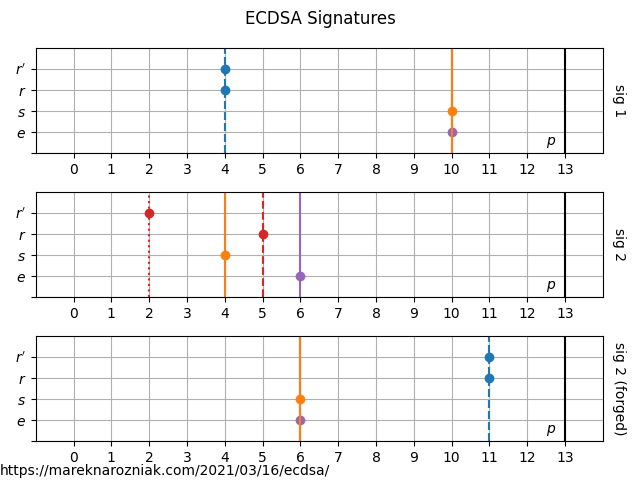
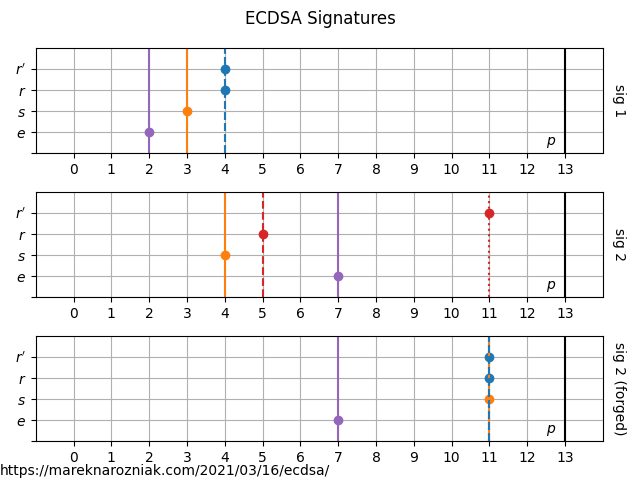
further minor updates in the ECSA article

diff --git a/_posts/en/2021-03-16-ecdsa.md b/_posts/en/2021-03-16-ecdsa.md
@@ -56,17 +56,17 @@ Now assuming the only way of computing $$ s $$ is $$ (\text{II}) $$ then produci
 
 Another thing to mention is that $$ k $$ does not necessarily need to be random, it could be deterministically chosen based on the $$ e $$ value and the private key as specified in [RFC6979](https://tools.ietf.org/html/rfc6979#section-3.2). That would be the deterministic-ECDSA variant.
 
-Now let us prepare a little example demonstrating this concept. We are going to re-use most of the code from [Diffie-Hellman key exchange over eliptic curve](/2020/11/30/ecdh/) article with same size of the finite fields. We are also going to design an extremely insecure hash function which yields a hash which is an integer that in range of that finite fields size $$ p = 17 $$.
+Now let us prepare a little example demonstrating this concept. We are going to re-use most of the code from [Diffie-Hellman key exchange over eliptic curve](/2020/11/30/ecdh/) article with same size of the finite fields. We are also going to design an extremely insecure hash function which yields a hash which is an integer that in range of that finite fields size $$ p = 13 $$. For this to work we need the field order to be also a prime number, if we choose a curve $$ a = 1 $$, $$ b = 7 $$ that will be the case.
 
 ```python
-def add_digits(num, p=17):
-    return (num - 1) % p + 1 if num > 0 else 0
+def add_digits(num, p):
+    return (num - 1) % p if num > 0 else 0
 
-def hashtard(m, p=17):
-  hash = hashlib.sha256(str.encode(m))
-  num = int.from_bytes(hash.digest(), 'big')
-  num = add_digits(num, p=p-1)
-  return num
+def hashtard(m, p):
+    hash = hashlib.sha256(str.encode(m))
+    num = int.from_bytes(hash.digest(), 'big')
+    num = add_digits(num, p)
+    return num
 ```
 
 The hashing function above is extremely insecure as it easily leads to collisions. Our example is meant to be small so the hash values need to fit in the size of the finite field $$ \mathbb{F}_p $$. To know more about security of hashing functions please check the [hashing functions](/2020/12/29/hash/) tutorial.
@@ -99,9 +99,9 @@ def verify(e, s, r, G, P, p):
     return False, R.x
 ```
 
-Imagine Alice and Bob are friends for a long time, they know each others public keys (as all close friends do!). Their public (and private) keys are visualized as follows in the finite field $$ \mathbb{F}_p $$ with $$ p = 17 $$
+Imagine Alice and Bob are friends for a long time, they know each others public keys (as all close friends do!). Their public (and private) keys are visualized as follows in the finite field $$ \mathbb{F}_p $$ with $$ p = 13 $$
 
-{% include figure.html url="" fll="/assets/figures/png/ecdsa/ecdsa_knowledge.png" alt="visualization of public and private keys for the ECDSA signature from perspective of each of the participants" %}
+{% include figure.html min-width="100%" url="" fll="/assets/figures/png/ecdsa/ecdsa_knowledge.png" alt="visualization of public and private keys for the ECDSA signature from perspective of each of the participants" %}
 
 As indicated, everyone knows own private key (visualized as arrow path in the $$ \mathbb{F}_p $$) and everyone else's public keys which are points in $$ \mathbb{F}_p $$. Even the random eavesdropper knows the public keys!
 
@@ -125,7 +125,7 @@ while the other one was not disturbing but strange, nothing like the Bob she rem
 > Bob  
 > Signature: <4, 5>
 
-Fortunately each of the letters is accompanied with the ECDSA signature and Alice still has Bob's public key from the old days. She decided to check both of the signatures $$ x_{R^\prime} $$ and compare it with $$ x_R $$ values. Alice computes the hash of both messages using `e=hashtard(message)` and then runs `verify(e, s, r, Gx, Gy, Px, Py, n)`, the output she finds is astonishing
+Fortunately each of the letters is accompanied with the ECDSA signature and Alice still has Bob's public key from the old days. She decided to check both of the signatures $$ x_{R^\prime} $$ and compare it with $$ x_R $$ values. Alice computes the hash of both messages using `e=hashtard(message, p)` and then runs `verify(e, s, r, G, P, p)`, the output she finds is astonishing
 
 ```
 Bob's signature on message 1 is valid? True
@@ -138,7 +138,7 @@ it seems like poor Bob is in trouble! Let's hope she will manage to arrange an a
 
 where we recognize the valid signature by $$ x_R = r = r^\prime = x_{R^\prime} $$ on the horizontal line. The third signature is an example of forged signature which was generated after brute-forcing the Bob's private key. This is easily doable for such a small finite field.
 
-The small size of the finite field $$ \mathbb{F}_p $$ is very problematic. The hash function is not collision resistant and Bob's kidnappers could just sit during coffee break and produce a letter that would eventually match one of older signatures. Another problem is the random nonce $$ k $$, as you may have noticed it is not randomly generated but set explicitly in `sign(e, k, d, Gx, Gy, n)`. The reason for that is this number needs to admit a modular inverse and for small numbers it might often occur to violate condition of greatest common divisor being equal to $$ 1 $$.
+The small size of the finite field $$ \mathbb{F}_p $$ is very problematic. The hash function is not collision resistant and Bob's kidnappers could just sit during coffee break and produce a letter that would eventually match one of older signatures. Another problem is the random nonce $$ k $$, as you may have noticed it is not randomly generated but set explicitly in `sign(e, k, d, G, p)`. The reason for that is this number needs to admit a modular inverse and for small numbers it might often occur to violate condition of greatest common divisor being equal to $$ 1 $$.
 
 Such a digital signature has a wide range of applications. It makes it possible to confirm the message is approved by the owner of particular public key. One of the examples where it comes to use is processing the Bitcoin transactions, miners would not append transaction to the block if the digital signature would not match. It is a part of their consensus algorithm in which wallet address is in fact a public key.
 
